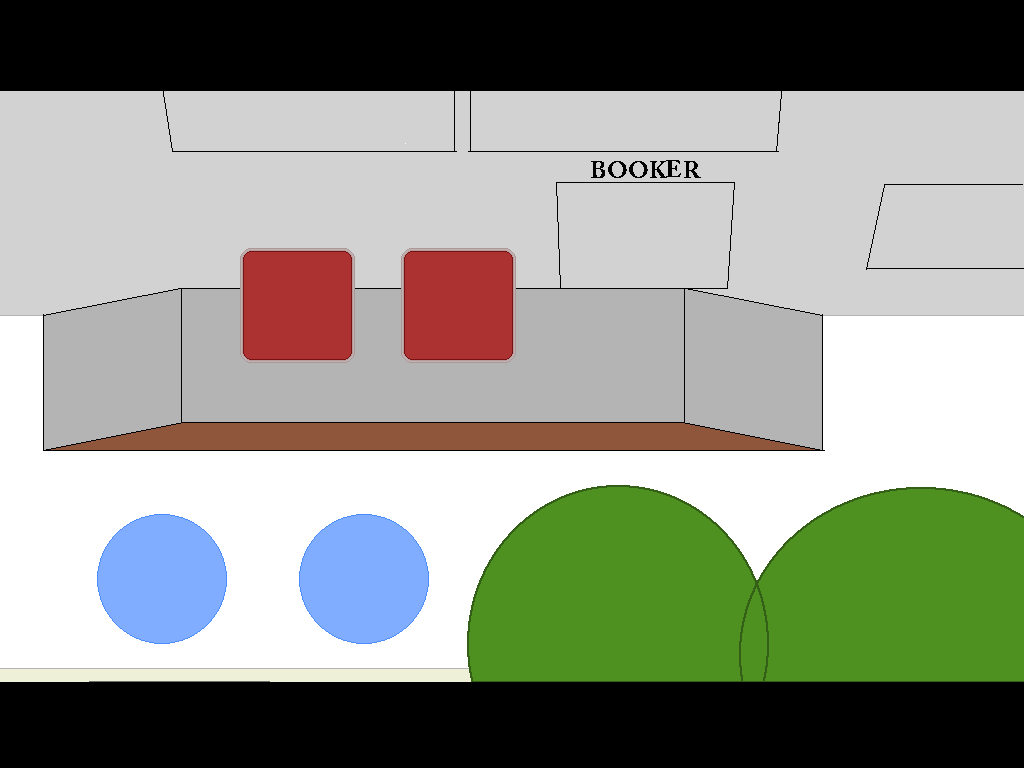
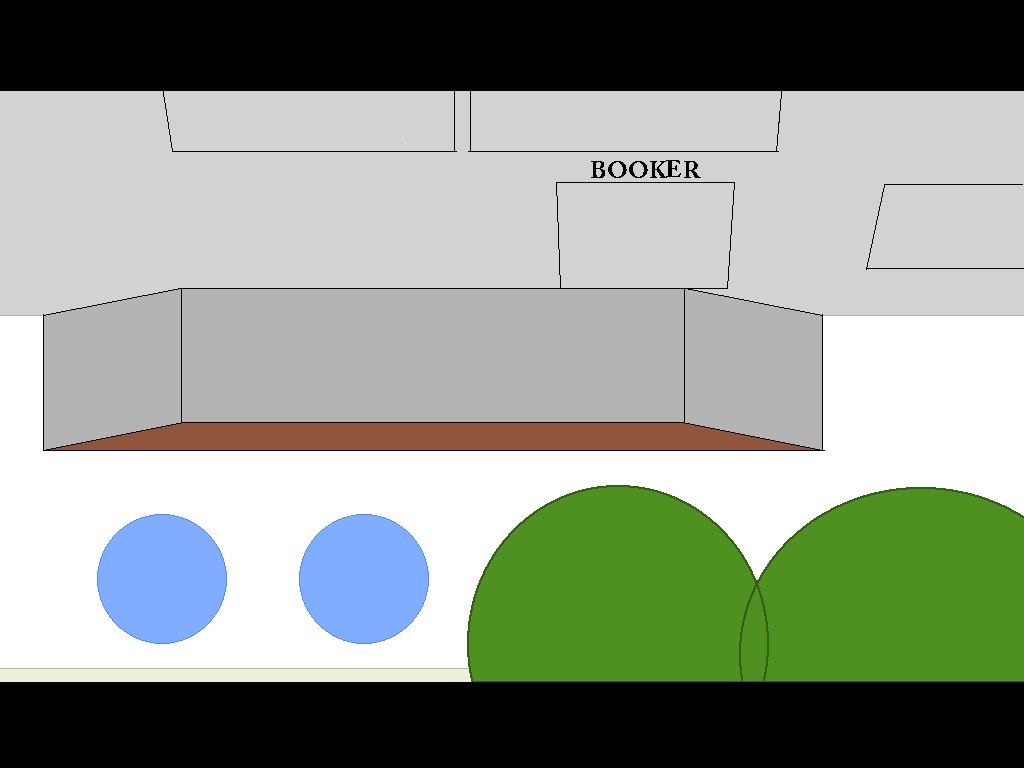
some fixes of object locations

Changed region(s): [[0.375, 0.3125, 0.5312, 0.4688], [0.2188, 0.3125, 0.3438, 0.4688]]

diff --git a/Objects/stages.py b/Objects/stages.py
@@ -10,8 +10,7 @@ stages = {1 : {'СТАДИЯ' : '1',
                                          (1004, 0, 20, 778, None, 0, 0, 0), # правая стена
                                          (0, 668, 1024, 130, None, 0, 0, 0), # нижняя стена
                                          (0, 0, 20, 768, None, 0, 0, 0), # левая стена
-                                         (240, 248, 110, 110, 'Files/Images/S1R3/room_large_table_with_chairs_1.png', 240, 248, 1),
-                                         (400, 248, 110, 110, 'Files/Images/S1R3/room_large_table_with_chairs_1.png', 401, 248, 2) ),
+                                         (400, 248, 110, 110, 'Files/Images/S1R3/room_large_table_with_chairs_1.png', 400, 248, 1) ),
 
                                     2 : ((0, 0, 580, 112, None, 0, 0, 0), # верхняя стена
                                          (736, 0, 298, 778, None, 0, 0, 0), # правая стена
@@ -46,16 +45,20 @@ stages = {1 : {'СТАДИЯ' : '1',
                                          (320, 604, 350, 50, 'Files/Images/S1R3/room_large_woodrobe_2.png', 302, 604, 0), # книжная полка
                                          (168, 630, 96, 40, 'Files/Images/S1R3/room_large_table_3.png', 166, 620, 0), # стелла слева внизу
                                          )},
-               'ИНТЕРАКТИВНЫЕ ОБЪЕКТЫ (npc)' : {1: ((400, 180, 48, 48),
+               'ИНТЕРАКТИВНЫЕ ОБЪЕКТЫ (npc)' : {1: ((400, 380, 48, 48),
                                                     (52, 592, 48, 48)),
                                                 2: ((400, 180, 48, 48),
-                                                    (52, 592, 48, 48)),
+                                                    (340, 492, 48, 48)),
                                                 3: ((400, 180, 48, 48),
                                                     (52, 592, 48, 48))},
-               'СТУЛЬЯ (npc)' : {1: ((600, 400, 600, 352, 'Files/Images/S1R3/room_large_chair_1.png', 98, 174, 1, 'вправо'),
-                                     (620, 532, 620, 552, 'Files/Images/S1R3/room_large_chair_1.png', 98, 174, 1, 'вправо')),
-                                 2: ((600, 400, 600, 352, 'Files/Images/S1R3/room_large_chair_1.png', 98, 174, 1, 'вправо'),
-                                     (620, 532, 620, 552, 'Files/Images/S1R3/room_large_chair_1.png', 98, 174, 1, 'вправо')),
+               'СТУЛЬЯ (npc)' : {1: ((344, 312, 365, 284, 'Files/Images/S1R3/room_large_chair_9.png', 360, 278, 1, 'вправо'),
+                                     (516, 312, 504, 284, 'Files/Images/S1R3/room_large_chair_10.png', 494, 278, 1, 'влево')
+                                     ),
+                                 2: ((664, 132, 684, 166, 'Files/Images/S1R3/room_large_chair_5.png', 678, 150, 1, 'вниз'),
+                                     (664, 296, 682, 278, 'Files/Images/S1R3/room_large_chair_6.png', 678, 280, 1, 'вверх'),
+                                     (664, 332, 684, 362, 'Files/Images/S1R3/room_large_chair_5.png', 678, 344, 2, 'вниз'),
+                                     (664, 496, 682, 472, 'Files/Images/S1R3/room_large_chair_6.png', 678, 474, 2, 'вверх')
+                                     ),
                                  3: ((164, 260, 155, 194, 'Files/Images/S1R3/room_large_chair_1.png', 98, 174, 1, 'вправо'), # коричневый стол слева вверху
                                      (320, 200, 315, 140, 'Files/Images/S1R3/room_large_chair_2.png', 300, 104, 1, 'вниз-влево'), #
                                      (572, 140, 589, 128, 'Files/Images/S1R3/room_large_chair_7.png', 575, 122, 2, 'вправо'), # красный стол сверху
@@ -71,7 +74,8 @@ stages = {1 : {'СТАДИЯ' : '1',
                                      (652, 324, 665, 326, 'Files/Images/S1R3/room_large_chair_9.png', 655, 320, 5, 'вправо'), # красный стол справа
                                      (824, 324, 797, 326, 'Files/Images/S1R3/room_large_chair_10.png', 790, 320, 5, 'влево'), #
                                      (724, 528, 727, 577, 'Files/Images/S1R3/room_large_chair_3.png', 692, 566, 6, 'вверх-вправо'), # коричневый стол справа внизу
-                                     (800, 444, 850, 462, 'Files/Images/S1R3/room_large_chair_4.png', 848, 442, 6, 'вниз-влево'))} #
+                                     (800, 444, 850, 462, 'Files/Images/S1R3/room_large_chair_4.png', 848, 442, 6, 'вниз-влево')
+                                     )} #
                },
           2 : {'СТАДИЯ' : '2',
                'ФОНЫ' : {1 : 'files/images/room_outside_2.jpg',
